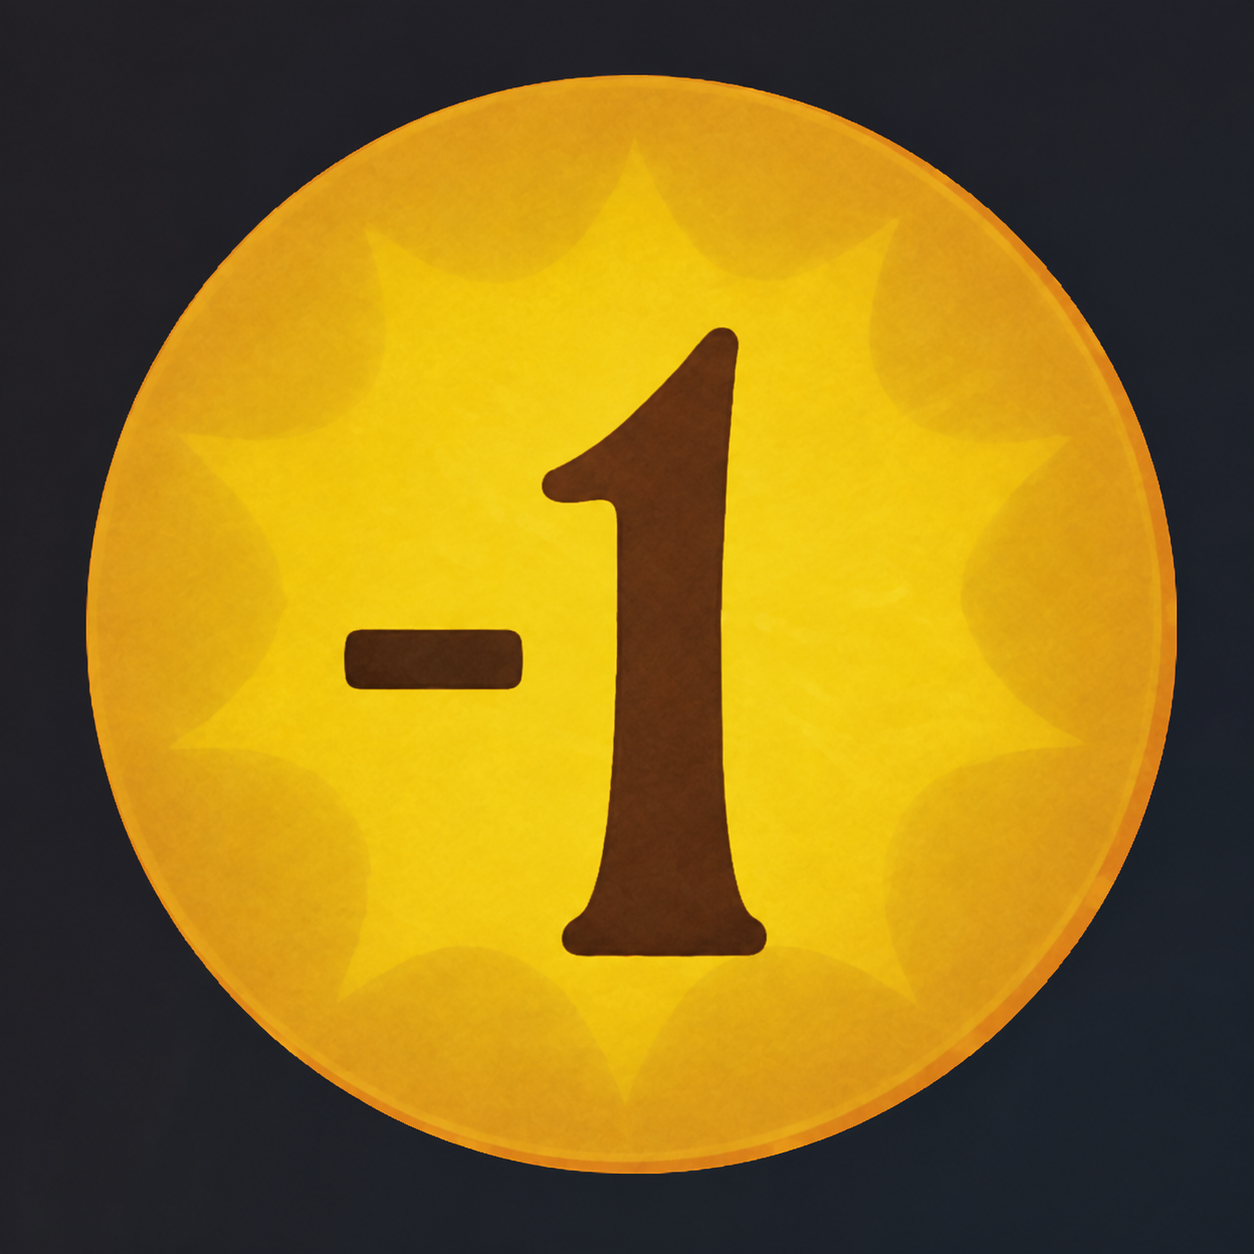
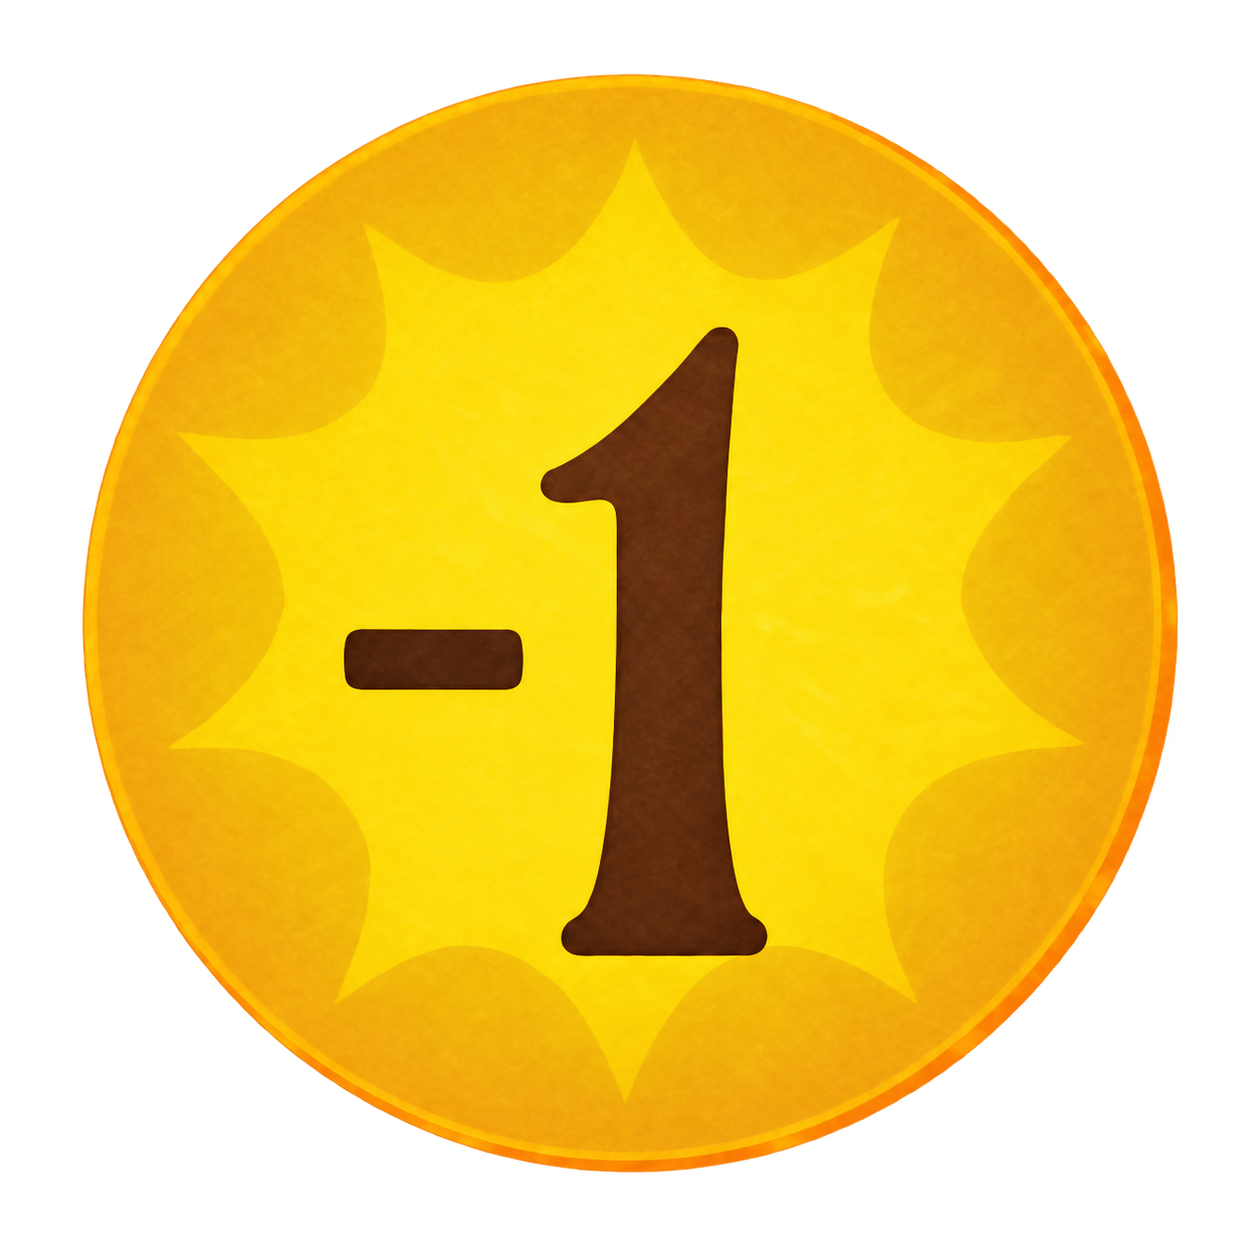
Add files via upload

diff --git a/index.html b/index.html
@@ -70,11 +70,11 @@
     .event-set-icon-box{display:inline-flex;align-items:center;justify-content:center;width:20px;height:20px;flex:0 0 20px;overflow:visible}
     .event-set-icon{--event-set-scale:1;--event-set-shift-x:0px;--event-set-shift-y:4px;display:block;width:20px;height:20px;max-width:none;object-fit:contain;transform:translate(var(--event-set-shift-x),var(--event-set-shift-y)) scale(var(--event-set-scale));transform-origin:center;flex:0 0 auto}
     .event-set-icon[src*="set_pearlbrook.png"]{--event-set-scale:.93;--event-set-shift-x:-.25px}
-    .event-set-icon[src*="set_bellfaire.png"]{--event-set-scale:1.19;--event-set-shift-x:-2.2px}
+    .event-set-icon[src*="set_bellfaire.png"]{--event-set-scale:1.12;--event-set-shift-x:-2.2px}
     .event-set-icon[src*="set_newleaf.png"]{--event-set-scale:.965;--event-set-shift-x:-.15px}
     .event-name-jp-row{display:inline-flex;flex-wrap:nowrap;align-items:center;gap:8px;max-width:100%;min-width:0;vertical-align:top}
     .event-name-jp-row>.event-name-jp{flex:0 1 auto;min-width:0;overflow-wrap:anywhere}
-    .event-name-jp{font-size:21px;font-weight:700;line-height:1.35}
+    .event-name-jp{font-size:21px;font-weight:400;line-height:1.35}
     .event-name-en{margin-top:3px;color:#696b64;font-size:15px;font-weight:600;line-height:1.4}
     .event-condition{display:flex;align-items:center;gap:8px;margin-top:9px;padding:8px 10px 8px 0;border-radius:9px;background:#fffaf0;color:#555;font-size:13px;line-height:1.45;min-width:0}
     .event-condition-text{flex:1 1 auto;min-width:0;text-align:left;overflow-wrap:anywhere}
@@ -107,9 +107,9 @@
     .discovery-large-jp{font-size:21px;font-weight:700;line-height:1.35}
     .discovery-large-label{margin-top:4px;color:#696b64;font-size:12px;line-height:1.35}
     .season-icon{display:block;width:auto;height:30px;max-width:58px;object-fit:contain;transform-origin:center;flex:0 0 auto}
-    .season-icon[src*="spirecrest_foothills.png"]{transform:translateY(2px) scale(.96)}
-    .season-icon[src*="spirecrest_peaks.png"]{transform:translateY(2px) scale(1.02)}
-    .season-icon[src*="spirecrest_ridge.png"]{transform:translateY(2px) scale(1)}
+    .season-icon[src*="spirecrest_foothills.png"]{transform:translateY(2px) scale(.864)}
+    .season-icon[src*="spirecrest_peaks.png"]{transform:translateY(2px) scale(.918)}
+    .season-icon[src*="spirecrest_ridge.png"]{transform:translateY(2px) scale(.9)}
     .discovery-info-row{display:flex;align-items:center;justify-content:center;min-height:24px;margin-top:6px}
     .discovery-info-row .card-info-left{flex:0 1 auto;justify-content:center}
     .discovery-content{margin-top:10px}
@@ -1003,12 +1003,14 @@
       document.querySelectorAll('.card .set-icon-corner').forEach(corner => {
         const card = corner.closest('.card');
         if (!card) return;
-        const iconRect = corner.getBoundingClientRect();
+        const icon = corner.querySelector('.card-set-icon');
+        const iconRect = (icon || corner).getBoundingClientRect();
         const candidates = [...card.querySelectorAll('.effect,.details,.related-row,.event-condition,.event-vp-note,.discovery-vp-note,.discovery-content')].reverse();
         const nearby = candidates.some(candidate => contentRects(candidate).some(rect => (
-          rect.bottom > iconRect.top - 3
-          && rect.top < iconRect.bottom + 3
-          && rect.right > iconRect.left - 12
+          rect.bottom > iconRect.top - 2
+          && rect.top < iconRect.bottom + 2
+          && rect.right > iconRect.left - 2
+          && rect.left < iconRect.right + 2
         )));
         if (!nearby) return;
         card.classList.add('has-set-icon-row');
